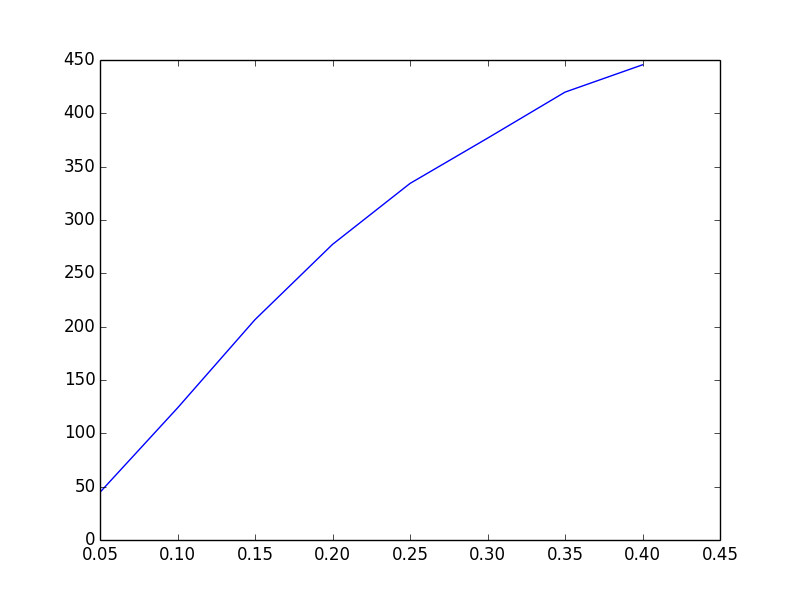
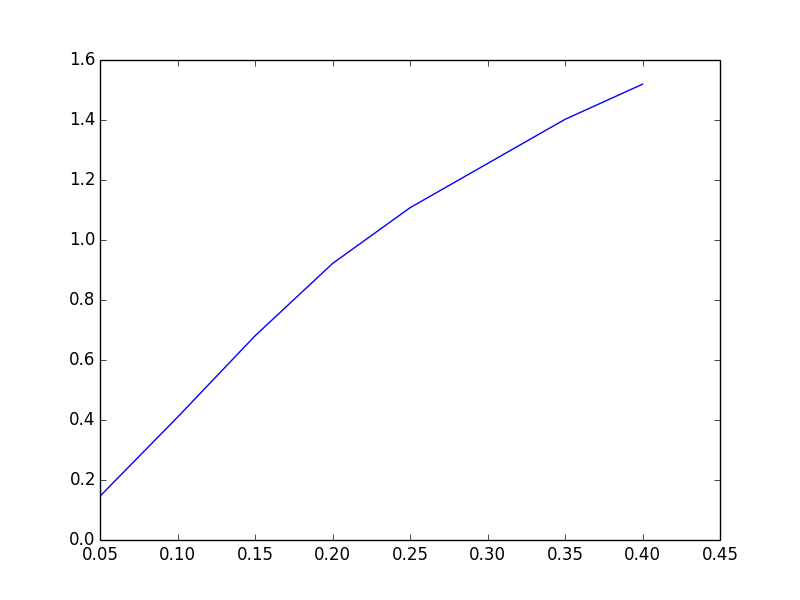
Fixed error fx so error is <1 instead of >300

diff --git a/fmri_solver.py b/fmri_solver.py
@@ -45,24 +45,31 @@ def main():
     y = np.asarray(y)
     weights = np.zeros([len(signals_train[0])])
 
+    lambdaValues = [.05, .1, .15, .2, .25, .3, .35, .4]
+    results = [0, 0, 0, 0, 0, 0, 0, 0]
+    results[0] = squared_error(y, signals_train, scd(.05, y, signals_train, weights, 20))
+    results[1] = squared_error(y, signals_train, scd(.1, y, signals_train, weights, 20))
+    results[2] = squared_error(y, signals_train, scd(.15, y, signals_train, weights, 20))
+    results[3] = squared_error(y, signals_train, scd(.2, y, signals_train, weights, 20))
+    results[4] = squared_error(y, signals_train, scd(.25, y, signals_train, weights, 20))
+    results[5] = squared_error(y, signals_train, scd(.3, y, signals_train, weights, 20))
+    results[6] = squared_error(y, signals_train, scd(.35, y, signals_train, weights, 20))
+    results[7] = squared_error(y, signals_train, scd(.4, y, signals_train, weights, 20))
+    plt.plot(lambdaValues, results)
+    plt.savefig('squaredErrorTraining_SCD.png')
+    plt.close()
+    results[0] = squared_error(y, signals_train, pgd(.05, y, signals_train, weights, 20))
+    results[1] = squared_error(y, signals_train, pgd(.1, y, signals_train, weights, 20))
+    results[2] = squared_error(y, signals_train, pgd(.15, y, signals_train, weights, 20))
+    results[3] = squared_error(y, signals_train, pgd(.2, y, signals_train, weights, 20))
+    results[4] = squared_error(y, signals_train, pgd(.25, y, signals_train, weights, 20))
+    results[5] = squared_error(y, signals_train, pgd(.3, y, signals_train, weights, 20))
+    results[6] = squared_error(y, signals_train, pgd(.35, y, signals_train, weights, 20))
+    results[7] = squared_error(y, signals_train, pgd(.4, y, signals_train, weights, 20))
+    plt.plot(lambdaValues, results)
+    plt.savefig('squaredErrorTraining_PGD.png')
+    plt.close()
 
-   # lambdaValues = [0.05, 0.1, 0.15, 0.2, 0.25, 0.3, 0.35, .4]
-   # results = [0, 0, 0, 0, 0, 0, 0, 0]
-   # results[0] = squared_error(y, signals_train, scd(.05, y, signals_train, weights, 20))
-   # results[1] = squared_error(y, signals_train, scd(.1, y, signals_train, weights, 20))
-   # results[2] = squared_error(y, signals_train, scd(.15, y, signals_train, weights, 20))
-   # results[3] = squared_error(y, signals_train, scd(.2, y, signals_train, weights, 20))
-   # results[4] = squared_error(y, signals_train, scd(.25, y, signals_train, weights, 20))
-   # results[5] = squared_error(y, signals_train, scd(.3, y, signals_train, weights, 20))
-   # results[6] = squared_error(y, signals_train, scd(.35, y, signals_train, weights, 20))
-   # results[7] = squared_error(y, signals_train, scd(.4, y, signals_train, weights, 20))
-
-   # plt.plot(lambdaValues, results)
-   # plt.savefig('squaredErrorTraining.png')
-   # plt.close()
-
-    print(squared_error(pgd(10, y, signals_train, weights, 1), y, signals_train))
-    print(squared_error(pgd(100, y, signals_train, weights, 1), y, signals_train))
 
 
 def soft_threshold(a_j, c_j, lmbda):
@@ -226,13 +233,17 @@ def vector_max(value, vector):
 		vector[i] = max(value, vector[i])
 	return vector
 
-def squared_error(weights, y, X):
-    total_error = 0
-    for i in range(0, len(y)):
-        cur_row = X[i, :]
-        error = (y[i] - np.dot(cur_row, weights)) ** 2
-        total_error += error
-    return total_error
+def squared_error(y, X, weights):
+	y2 = np.copy(y)
+	print(X.shape)
+	print(weights.shape)
+	for i in range(X.shape[0]):
+		y2[i] = np.dot(X[i], weights)
+
+	diff = y-y2
+	sumError = np.sum(np.square(diff))
+	return sumError / X.shape[0]
+
 
 if __name__ == "__main__":
     main()
